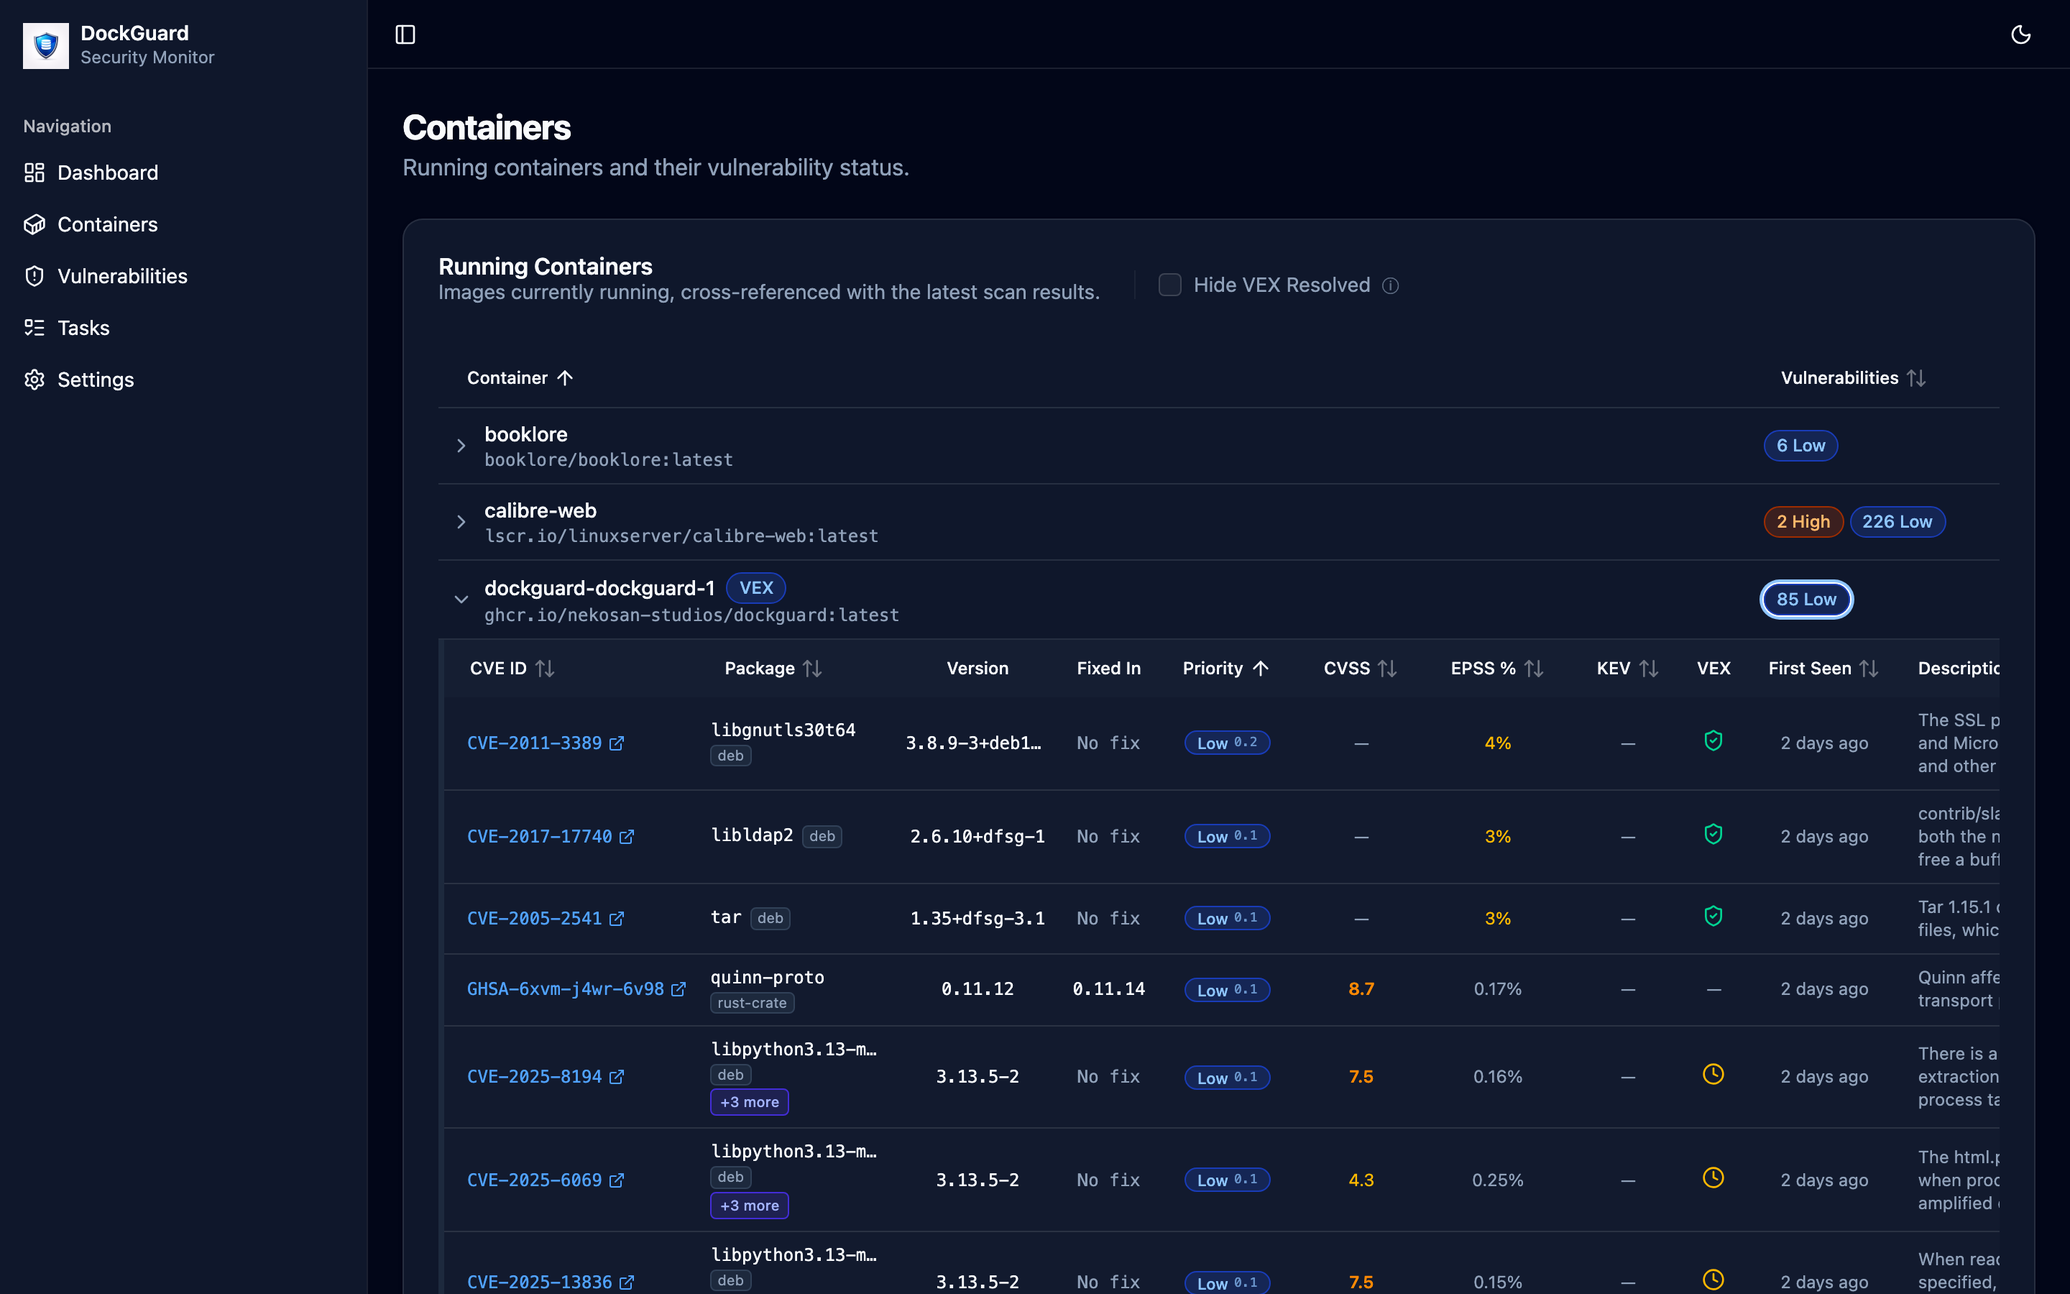
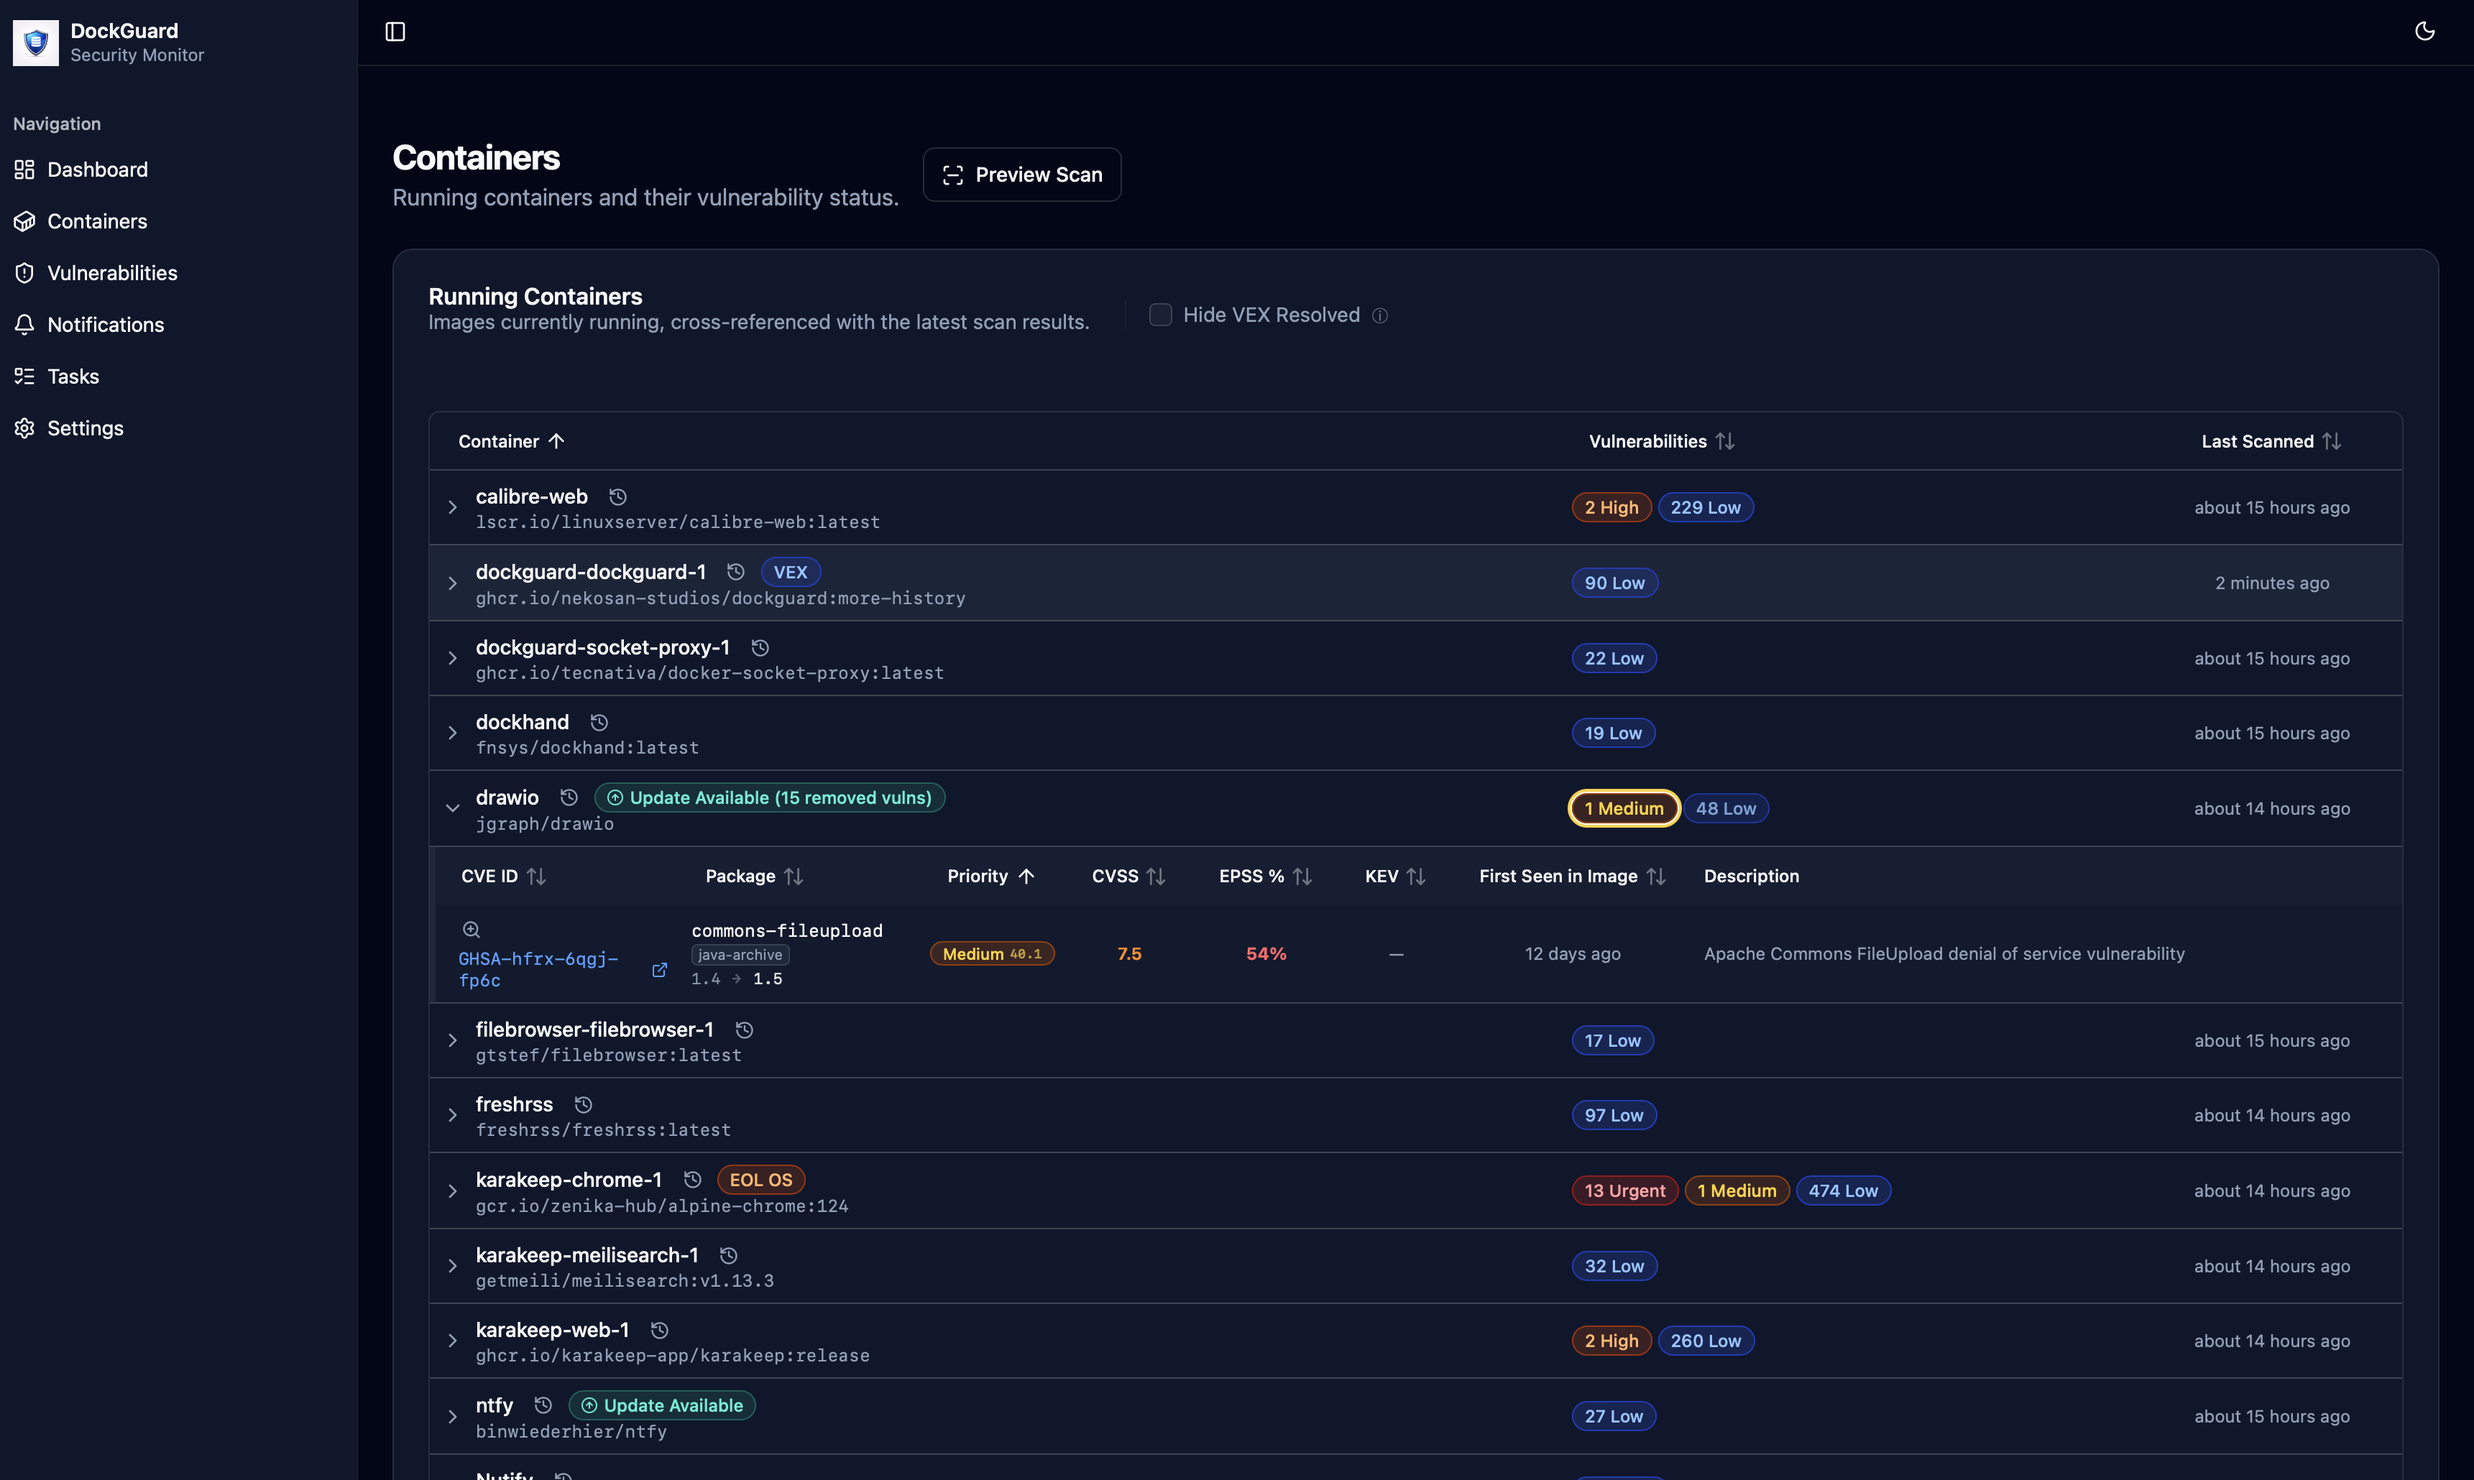
update readme

diff --git a/README.md b/README.md
@@ -26,6 +26,12 @@ DockGuard is a free, self-hosted security scanner. It watches your running Docke
 **Vulnerabilities**
 ![Vulnerabilities](docs/screenshots/vulnerabilities.png)
 
+**Preview Scan**
+![Preview Scan](docs/screenshots/previewscan.png)
+
+**Scan History**
+![Scan History](docs/screenshots/scanhistory.png)
+
 ## Features
 
 - **Simple to install** — Up and running after reviewing a few values in the docker compose file.
